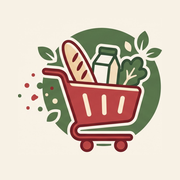
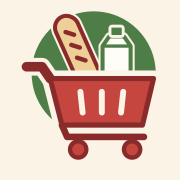
fix(pwa): icono redibujado en vectorial para que no se vea pixelado
Los iconos salían de un recorte de 700 px del logo (imagen con compresión) y el logo
tiene demasiado detalle para 48 dp. Nueva versión simplificada en assets/icono-migas.svg
(círculo verde, carro, baguette y brik, contornos gruesos, sin migas ni hojas sueltas),
de la que salen todos los PNG en RGBA, el favicon (16/32/48) y app/icon.svg. El
maskable deja el dibujo dentro del círculo seguro del 80 %.

diff --git a/src/app/manifest.ts b/src/app/manifest.ts
@@ -22,10 +22,13 @@ export default function manifest(): MetadataRoute.Manifest {
     // Colores de globals.css: el fondo crema evita el destello blanco al abrir.
     background_color: "#fff8f3",
     theme_color: "#fff8f3",
+    // Iconos generados desde assets/icono-migas.svg (versión simplificada del logo:
+    // a 48 dp las migas y las hojas sueltas se convertían en ruido). Si cambia el
+    // icono, hay que desinstalar y volver a instalar la app en el móvil.
     icons: [
       { src: "/icons/icon-192.png", sizes: "192x192", type: "image/png", purpose: "any" },
       { src: "/icons/icon-512.png", sizes: "512x512", type: "image/png", purpose: "any" },
-      // Con margen extra: Android lo recorta en círculo, gota, etc.
+      // Dibujo dentro del círculo seguro (80 % del lado): Android lo recorta en círculo, gota, etc.
       {
         src: "/icons/icon-maskable-512.png",
         sizes: "512x512",
